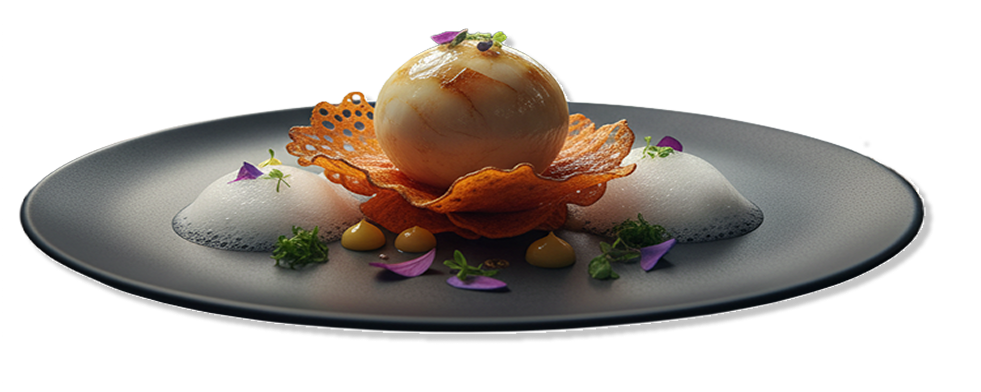
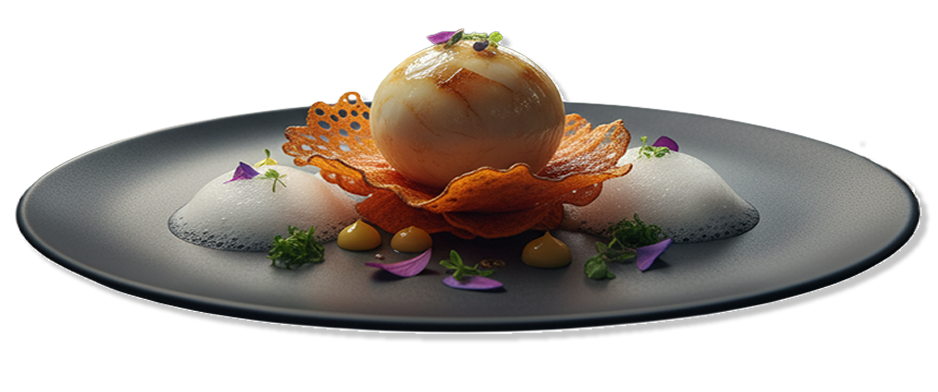
.

diff --git a/css/main.css b/css/main.css
@@ -2413,8 +2413,8 @@ input::-webkit-calendar-picker-indicator {
 
 @media (min-width: 768px) {
     #page-sfera-corallo .dish-hero-bg img {
-        width: 90%;
-        bottom: -15vh;
+        width: 100%;
+        bottom: -25vh;
     }
 }
 

diff --git a/menu/sfera_corallo.html b/menu/sfera_corallo.html
@@ -171,7 +171,7 @@
         <section class="ingredients-dish-bg">
 
             <div class="text-center padding-section">
-                <h2 class="padding-text">Scopri gli ingredienti</h2>
+                <h2 class="padding-text discover-ingredients-heading">Scopri gli ingredienti</h2>
                 <div class="container px-3 px-sm-0">
                     <img title="Panoramica ingredienti del piatto Sfera Corallo"
                         alt="Composizione ingredienti del piatto Sfera Corallo"